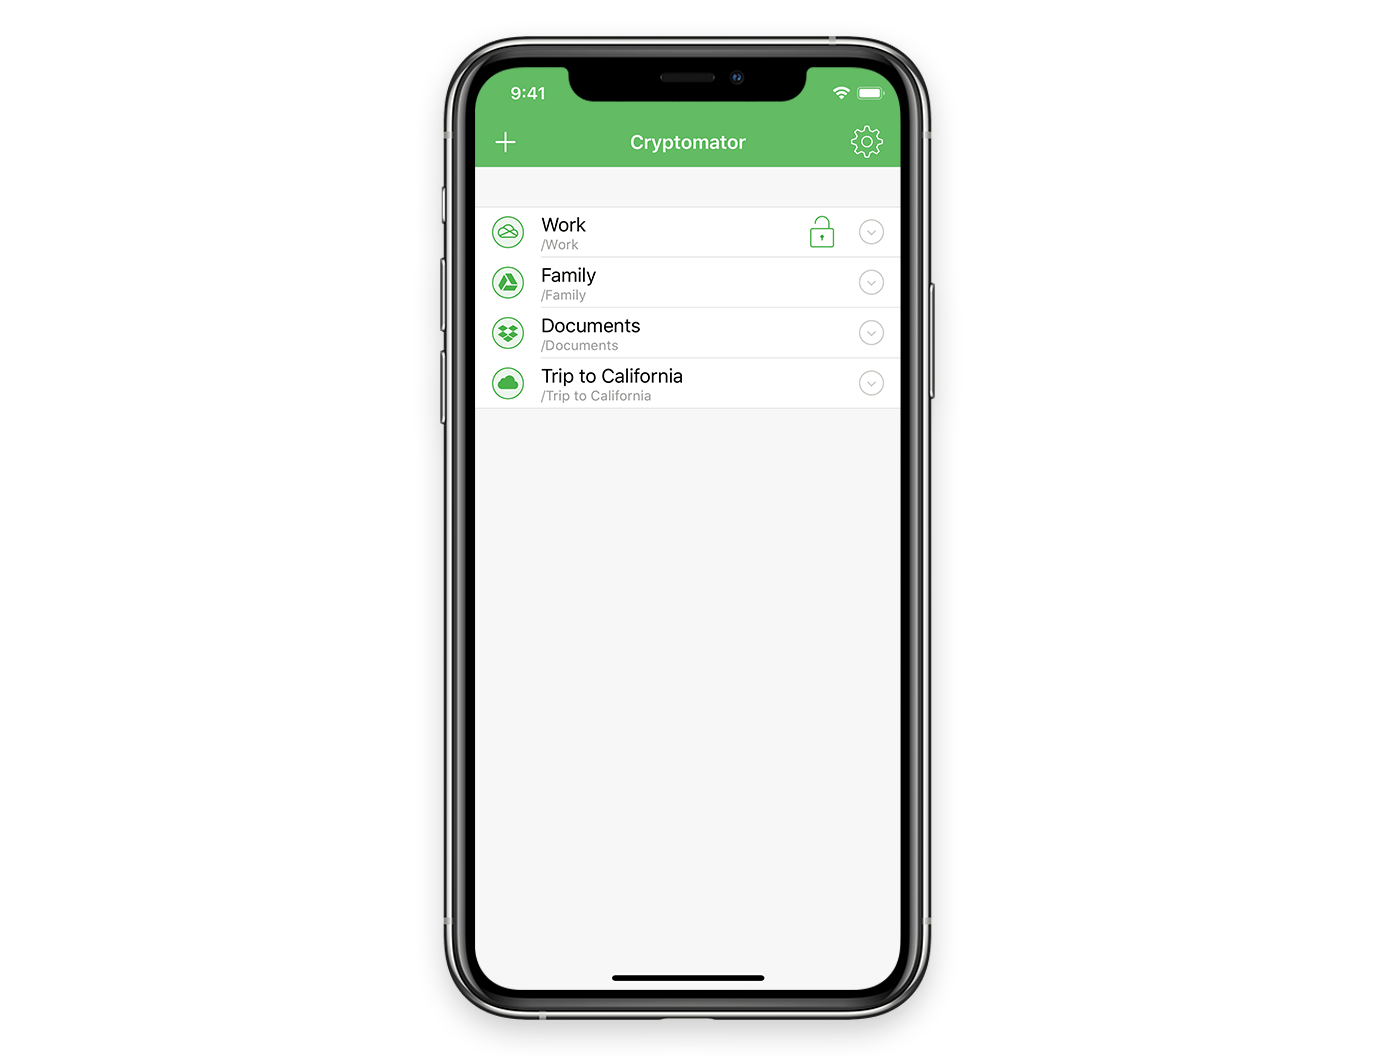
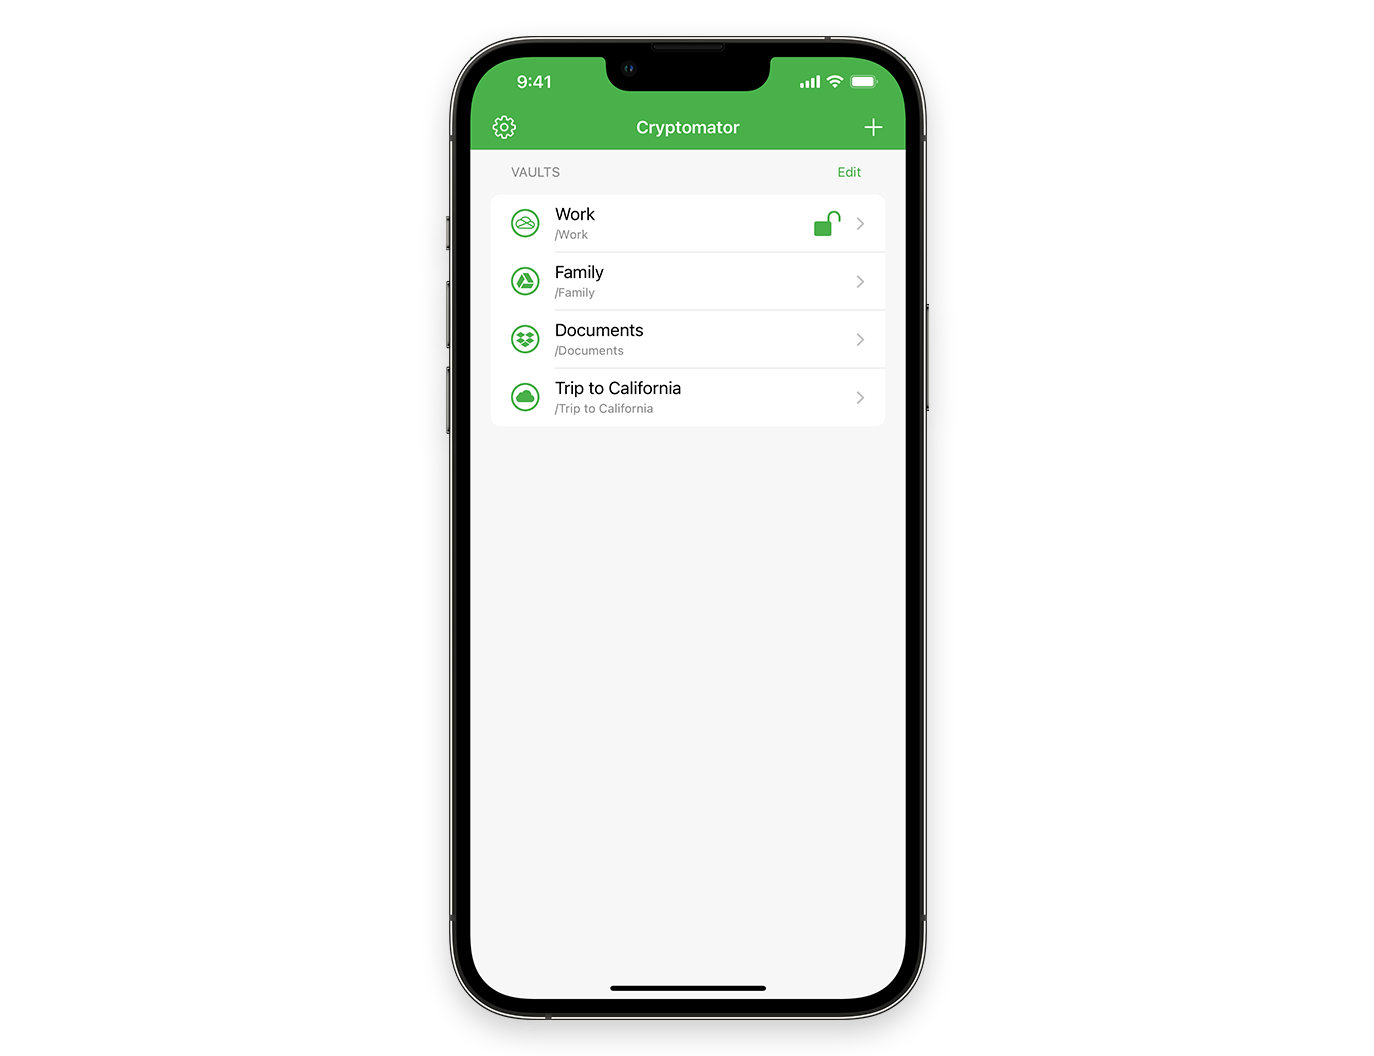
updated ios downloads

Changed region(s): [[0.3057, 0.0312, 0.7031, 0.9688], [0.5808, 0.1875, 0.6114, 0.25]]

diff --git a/content/downloads/ios.de.html b/content/downloads/ios.de.html
@@ -19,9 +19,9 @@ screenshot2x: /img/downloads/ios-screenshot@2x.png
     </div>
     <div class="p-4">
       <div class="prose prose-sm max-w-none mb-4">
-        <p>Minimum: iOS 10.0</p>
+        <p>Minimum: iOS 13.0</p>
       </div>
-      <a href="https://apps.apple.com/de/app/cryptomator/id953086535" role="button">
+      <a href="https://apps.apple.com/de/app/cryptomator-2/id1560822163" role="button">
         <img class="h-10 mx-auto lazyload" data-src="/de/img/downloads/appstore-badge.svg">
       </a>
     </div>

diff --git a/content/downloads/ios.en.html b/content/downloads/ios.en.html
@@ -19,9 +19,9 @@ screenshot2x: /img/downloads/ios-screenshot@2x.png
     </div>
     <div class="p-4">
       <div class="prose prose-sm max-w-none mb-4">
-        <p>Minimum: iOS 10.0</p>
+        <p>Minimum: iOS 13.0</p>
       </div>
-      <a href="https://apps.apple.com/us/app/cryptomator/id953086535" role="button">
+      <a href="https://apps.apple.com/us/app/cryptomator-2/id1560822163" role="button">
         <img class="h-10 mx-auto lazyload" data-src="/img/downloads/appstore-badge.svg">
       </a>
     </div>
